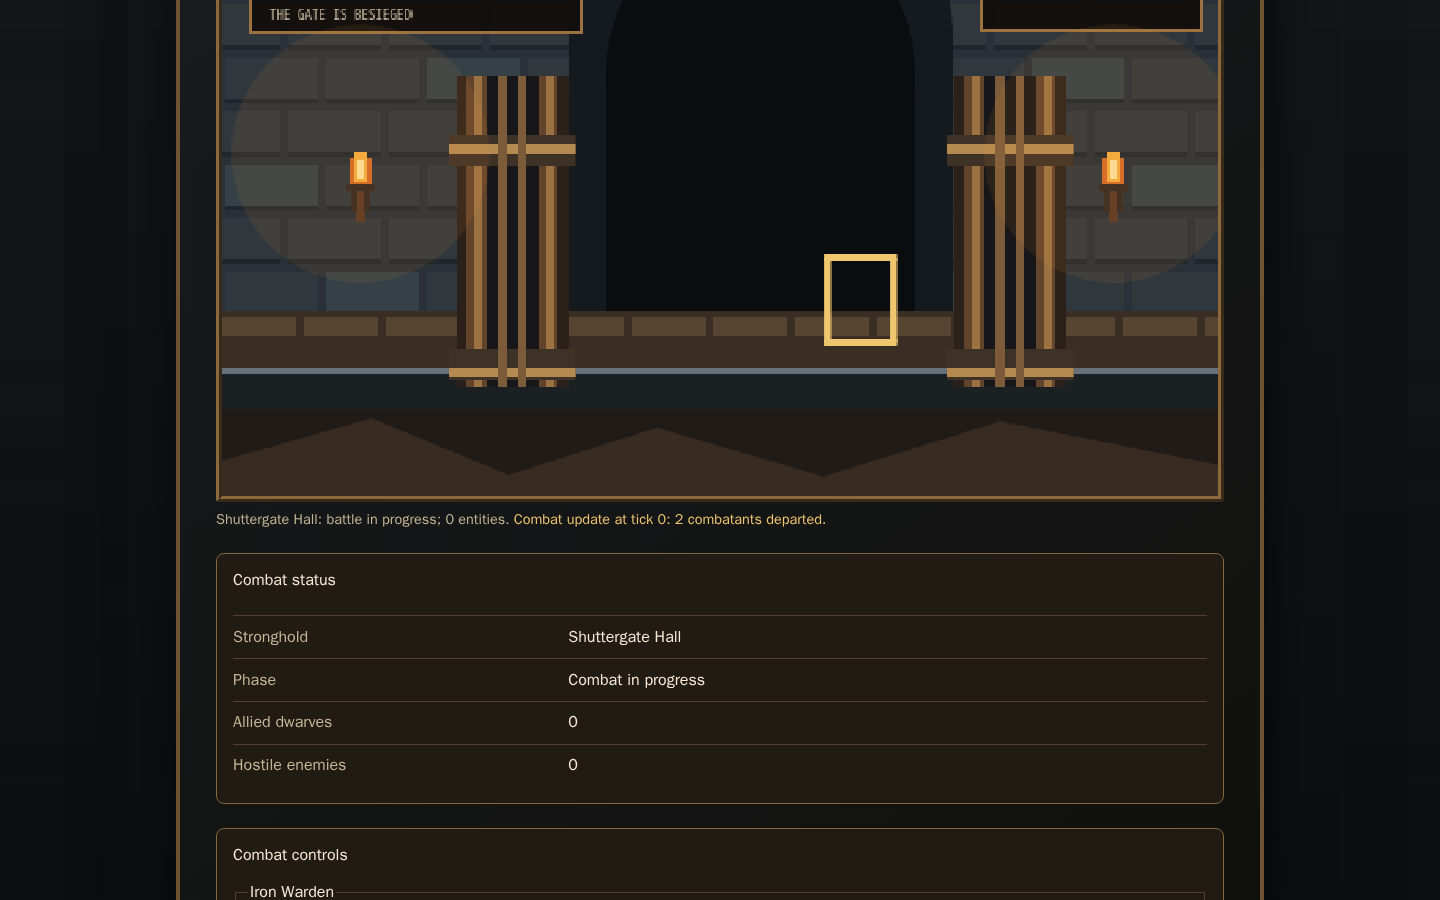
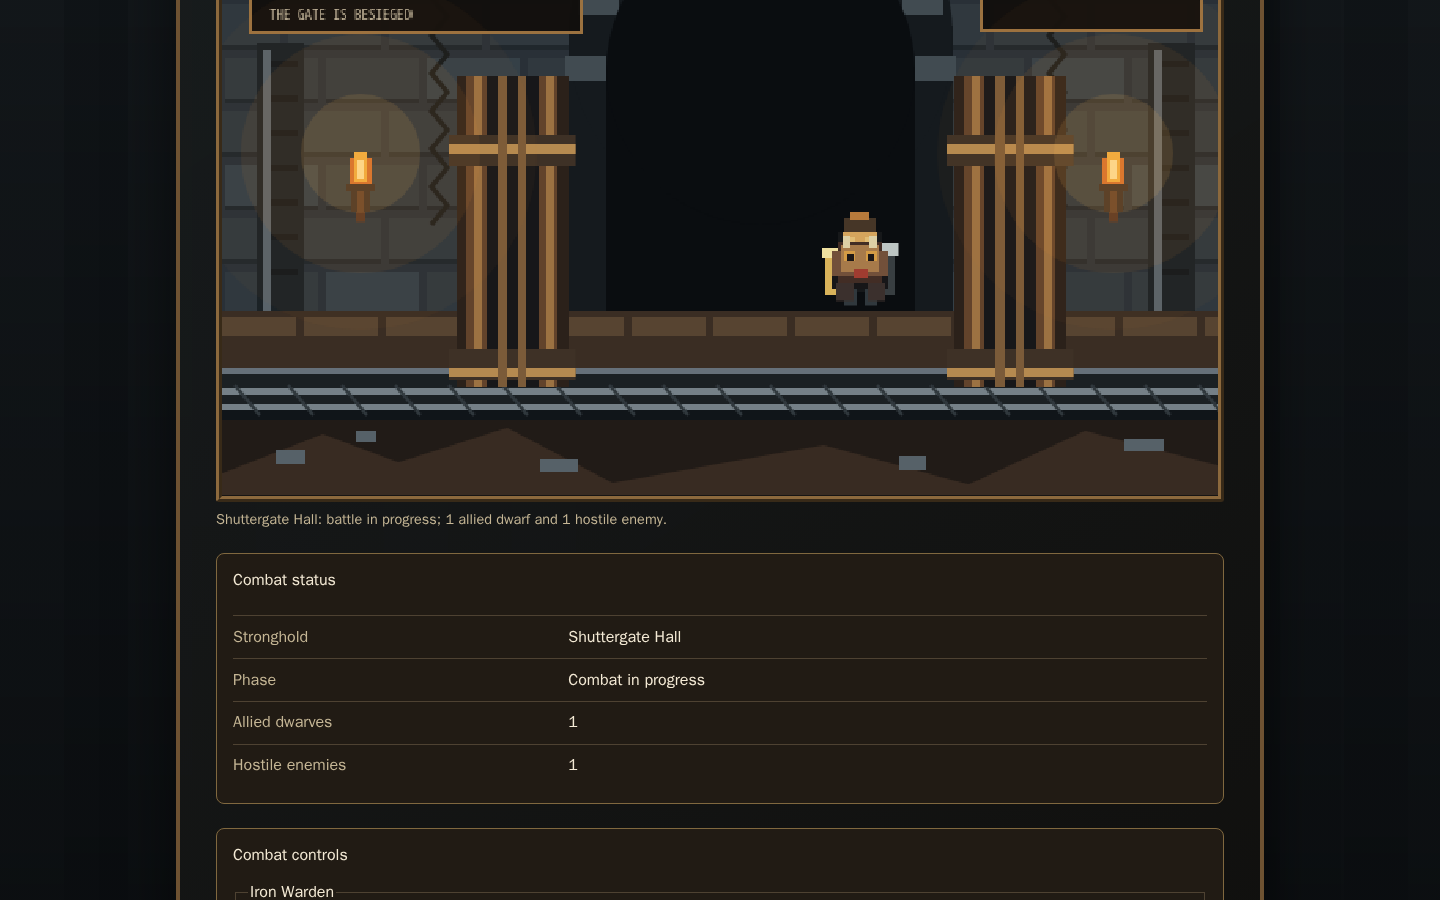
Show authoritative Shuttergate combatants

diff --git a/apps/web/src/Battlefield.tsx b/apps/web/src/Battlefield.tsx
@@ -135,9 +135,37 @@ function drawStonework(graphics: Phaser.GameObjects.Graphics): void {
   graphics.fillStyle(0x151a1e, 1);
   graphics.fillRect(220, 54, 244, 186);
   graphics.fillCircle(342, 61, 122);
+  graphics.fillStyle(0x414b51, 1);
+  for (let index = 0; index < 9; index += 1) {
+    const angle = Math.PI + (index * Math.PI) / 8;
+    const x = 342 + Math.cos(angle) * 111;
+    const y = 81 + Math.sin(angle) * 111;
+    graphics.fillRect(Math.round(x) - 13, Math.round(y) - 8, 26, 16);
+  }
   graphics.fillStyle(0x0a0d10, 1);
   graphics.fillRect(244, 80, 196, 160);
   graphics.fillCircle(342, 82, 98);
+
+  graphics.fillStyle(0x1b2226, 1);
+  graphics.fillRect(22, 65, 30, 170);
+  graphics.fillRect(588, 65, 30, 170);
+  graphics.fillStyle(0x59636a, 1);
+  graphics.fillRect(26, 69, 5, 166);
+  graphics.fillRect(592, 69, 5, 166);
+  graphics.fillStyle(0x15191c, 1);
+  for (let y = 76; y < 225; y += 22) {
+    graphics.fillRect(31, y, 17, 4);
+    graphics.fillRect(597, y, 17, 4);
+  }
+
+  graphics.lineStyle(3, 0x171b1d, 1);
+  for (const x of [138, 530]) {
+    graphics.beginPath();
+    graphics.moveTo(x, 36);
+    for (let y = 36; y < 185; y += 12)
+      graphics.lineTo(x + (y % 24 === 0 ? 5 : -5), y);
+    graphics.strokePath();
+  }
 
   graphics.fillStyle(0x3a2d23, 1);
   graphics.fillRect(0, 235, WIDTH, 62);
@@ -148,23 +176,44 @@ function drawStonework(graphics: Phaser.GameObjects.Graphics): void {
   graphics.fillStyle(0x667079, 1);
   graphics.fillRect(0, 271, WIDTH, 4);
 
+  graphics.lineStyle(4, 0x758087, 1);
+  graphics.lineBetween(0, 286, WIDTH, 286);
+  graphics.lineBetween(0, 296, WIDTH, 296);
+  graphics.lineStyle(2, 0x30383d, 1);
+  for (let x = 8; x < WIDTH; x += 34) graphics.lineBetween(x, 282, x + 16, 301);
+}
+
+function drawForeground(graphics: Phaser.GameObjects.Graphics): void {
   graphics.fillStyle(0x211b17, 1);
-  graphics.fillRect(0, 297, WIDTH, 63);
+  graphics.fillRect(0, 304, WIDTH, 56);
   graphics.fillStyle(0x382b22, 1);
   graphics.fillPoints(
     [
-      new Phaser.Math.Vector2(0, 330),
-      new Phaser.Math.Vector2(95, 303),
-      new Phaser.Math.Vector2(182, 339),
-      new Phaser.Math.Vector2(276, 309),
-      new Phaser.Math.Vector2(382, 340),
-      new Phaser.Math.Vector2(494, 305),
-      new Phaser.Math.Vector2(640, 334),
+      new Phaser.Math.Vector2(0, 338),
+      new Phaser.Math.Vector2(64, 313),
+      new Phaser.Math.Vector2(112, 331),
+      new Phaser.Math.Vector2(181, 309),
+      new Phaser.Math.Vector2(248, 344),
+      new Phaser.Math.Vector2(382, 320),
+      new Phaser.Math.Vector2(474, 345),
+      new Phaser.Math.Vector2(548, 311),
+      new Phaser.Math.Vector2(640, 335),
       new Phaser.Math.Vector2(640, 360),
       new Phaser.Math.Vector2(0, 360)
     ],
     true
   );
+  graphics.fillStyle(0x566168, 1);
+  for (const [x, y, width, height] of [
+    [34, 323, 19, 9],
+    [85, 311, 13, 7],
+    [202, 329, 24, 8],
+    [430, 327, 17, 9],
+    [573, 316, 25, 8]
+  ] as const)
+    graphics.fillRect(x, y, width, height);
+  graphics.fillStyle(0x171514, 1);
+  graphics.fillRect(0, 352, WIDTH, 8);
 }
 
 function drawDeployable(
@@ -198,9 +247,17 @@ function drawBattlefield(
   scene.add.image(566, 154, "torch");
 
   const glow = scene.add.graphics();
-  glow.fillStyle(0xf09a38, 0.09);
-  glow.fillCircle(88, 135, 82);
-  glow.fillCircle(566, 135, 82);
+  for (const [x, y] of [
+    [88, 135],
+    [566, 135]
+  ] as const) {
+    glow.fillStyle(0xf09a38, 0.035);
+    glow.fillCircle(x, y, 112);
+    glow.fillStyle(0xf09a38, 0.075);
+    glow.fillCircle(x, y, 76);
+    glow.fillStyle(0xffbd57, 0.12);
+    glow.fillCircle(x, y, 38);
+  }
 
   const primitives = buildBattlefieldPrimitives(snapshot);
   for (const [index, entity] of primitives.entities.entries()) {
@@ -255,6 +312,8 @@ function drawBattlefield(
         repeat: 1
       });
   }
+
+  drawForeground(scene.add.graphics());
 
   if (primitives.nodes.length === 0) {
     scene.add
@@ -442,25 +501,39 @@ export function Battlefield({
     if (nextFeedback !== undefined) soundPlayerRef.current?.play(nextFeedback);
   }, [reduceMotion, snapshot]);
 
+  const alliedDwarves = snapshot.entities.filter(
+    (entity) => entity.faction === "dwarf"
+  ).length;
+  const hostileEnemies = snapshot.entities.filter(
+    (entity) => entity.faction === "enemy"
+  ).length;
+
   return (
     <figure className="battlefield">
       <div ref={parentRef} className="battlefield-canvas" aria-hidden="true" />
       <figcaption aria-live="off">
         Shuttergate Hall:{" "}
         {snapshot.phase === "running" ? "battle in progress" : snapshot.phase};{" "}
-        {snapshot.entities.length}{" "}
-        {snapshot.entities.length === 1 ? "entity" : "entities"}.
+        {alliedDwarves} allied {alliedDwarves === 1 ? "dwarf" : "dwarves"} and{" "}
+        {hostileEnemies} hostile {hostileEnemies === 1 ? "enemy" : "enemies"}.
         {feedback !== undefined && (
           <span
             className="combat-feedback"
             data-motion={reduceMotion ? "static" : "animated"}
-            data-tick={feedback.tick}
           >
             {" "}
-            {feedback.summary}
+            {feedback.terminal
+              ? "The clash has ended."
+              : "The battle line has shifted."}
           </span>
         )}
       </figcaption>
+      {feedback !== undefined && (
+        <details className="developer-overlay battlefield-diagnostic">
+          <summary>Battlefield diagnostic (developer)</summary>
+          <p>{feedback.summary}</p>
+        </details>
+      )}
     </figure>
   );
 }

diff --git a/apps/web/src/App.browser.test.tsx b/apps/web/src/App.browser.test.tsx
@@ -1462,6 +1462,16 @@ describe("authoritative web worker", () => {
         "static"
       )
     );
+    expect(document.querySelector("figcaption")?.textContent).toContain(
+      "The battle line has shifted."
+    );
+    expect(document.querySelector("figcaption")?.textContent).not.toContain(
+      "tick"
+    );
+    const diagnostic = document.querySelector(".battlefield-diagnostic");
+    expect(diagnostic).toBeInstanceOf(HTMLDetailsElement);
+    expect(diagnostic).not.toHaveAttribute("open");
+    expect(diagnostic?.textContent).toContain("Combat update at tick 2");
     render(initial);
     await vi.waitFor(() =>
       expect(document.querySelector(".combat-feedback")).toBeNull()
@@ -1867,6 +1877,15 @@ describe("authoritative web worker", () => {
     expect(combatControls?.textContent).not.toContain("phase_unavailable");
     expect(document.querySelector("figcaption")?.textContent).toContain(
       "Shuttergate Hall"
+    );
+    expect(document.querySelector("figcaption")?.textContent).toContain(
+      "1 allied dwarf and 1 hostile enemy"
+    );
+    expect(document.querySelector(".combat-hud")?.textContent).toContain(
+      "Allied dwarves1"
+    );
+    expect(document.querySelector(".combat-hud")?.textContent).toContain(
+      "Hostile enemies1"
     );
     expect(document.querySelector("figcaption")?.textContent).not.toContain(
       "level.shuttergate_hall"

diff --git a/apps/web/src/simulation.worker.ts b/apps/web/src/simulation.worker.ts
@@ -541,7 +541,13 @@ self.addEventListener("message", async (event: MessageEvent<unknown>) => {
   pendingExecutionRequestId = null;
   postRunningSnapshot();
   postRenderSnapshot(
-    createRenderSnapshot(preparedContent, preparedScenario, "running", 0)
+    createRenderSnapshot(
+      preparedContent,
+      preparedScenario,
+      "running",
+      liveHost.state.tick,
+      liveHost.state.battlefield
+    )
   );
 
   if (protocolVersion === 1) await executePreparedScenario();

diff --git a/docs/visual-recovery-screenshots/README.md b/docs/visual-recovery-screenshots/README.md
@@ -1,3 +1,3 @@
 # Shuttergate visual-truth captures
 
-Matched viewport captures from the running web client. Desktop files are 1440×900; mobile files are 390×844. Checkpoint captures show the main stronghold screen. Combat captures are taken after the real Worker enters Shuttergate combat and the browser requests pause, preserving the authoritative snapshot while the image is captured.
+Matched viewport captures from the running web client. Desktop files are 1440×900; mobile files are 390×844. Checkpoint captures show the main stronghold screen. Combat captures use protocol v4's compiled `scenario.conformance.shield_slam` fixture at authoritative tick 0: after preparation is confirmed, the Worker enters the running phase paused and publishes its live battlefield state with the Iron Warden and shield-slam target still active. The browser remains manually paused while the same state is captured at both viewports.
